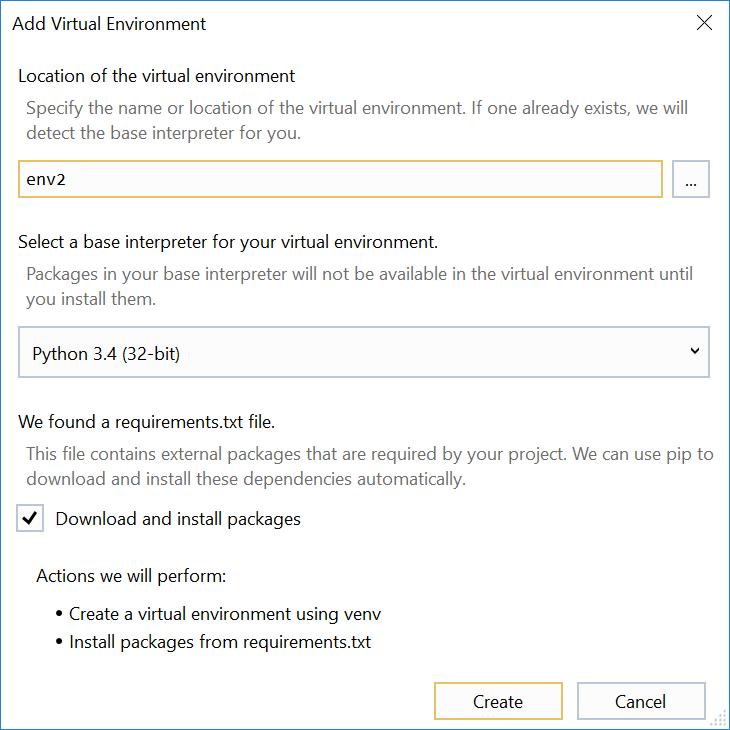
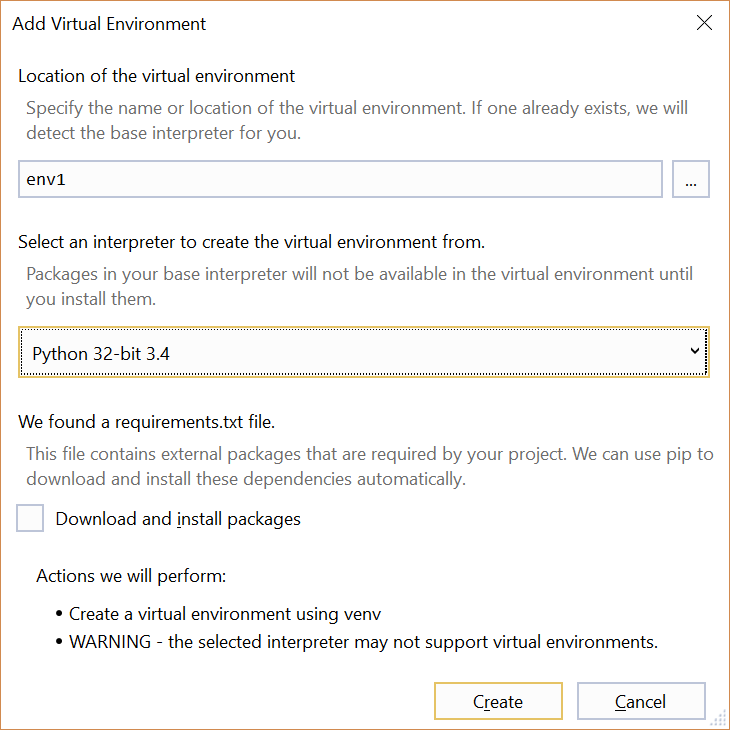
Updating the insturuction for website

diff --git a/Manual Deployment Guide/README.md b/Manual Deployment Guide/README.md
@@ -504,7 +504,7 @@ You will need the following accounts and software to create this solution:
 
 1) Download the installer for [Python Tools for Visual Studio (PTVS)](http://aka.ms/ptvs).
 
-2) Run the installer. In sometime, it will ask to select the workloads. Select **Python Development** and **ASP.NET and web development**. The size of application will be around 1.67 Gb.
+2) Run the installer. In some time, it will ask to select the workloads. Select **Python Development** and **ASP.NET and web development**. The size of application will be around 1.67 Gb.
 
 3) Click Install.
 
@@ -534,7 +534,7 @@ powerbi_url = '<Replace the current url with the one collected in Power BI secti
 
 #### 2. Add Virtual Environment and Python Packages
 
-Install [Python 3.4](http://go.microsoft.com/fwlink/?linkid=516990) if not done aready.
+Install [Python 3.4](http://go.microsoft.com/fwlink/?linkid=516990) if not done already.
 
 1) Open the Visual Studios. On the right top corner, click **Sign In**. Provide your azure subscription(portal.microsoft.com) credentials.  
 
@@ -542,7 +542,7 @@ Install [Python 3.4](http://go.microsoft.com/fwlink/?linkid=516990) if not done 
 
 3) Browse to the folder where you unzipped the inventoryoptimizationwebsite and open **inventoryoptimizationwebsite.sln**.
 
-4) If the poject fails to load, just right click on the Solution Explorer area and click on build. It will load the project. Try to reload the project as well.
+4) If the project fails to load, just right click on the Solution Explorer area and click on build. It will load the project. Try to reload the project as well.
 
 5) Once the project loads, go to the Solution Explorer Tab on right and expand inventoryoptimizationwebsite.
 
@@ -553,12 +553,15 @@ Install [Python 3.4](http://go.microsoft.com/fwlink/?linkid=516990) if not done 
 7) In the new opened window, provide the following details:
  - Name the environment as **env** (do not change the path).
  - Select base interpreter **Python 3.4(32-bit)**.
+ - Uncheck **Download and install packages**
 
 ![](Figures/website3.png)
 
+>**NOTE:** If you have not unchecked the **Download and install packages** in above step, you will see some unable to install packages error on the console. This can be ignored as we will manually put thoes packages, as mentioned in below step.
+
 8) Copy site-packages from inventoryoptimizationwebsite\inventoryoptimizationwebsite\inventoryoptimizationwebsite\\**site-packages** and replace the folder inventoryoptimizationwebsite\inventoryoptimizationwebsite\env\Lib\\**site-packages** with it.
 
-9) Right click on the new python evnironment **env(Python 3.4(32-bit))** and select **install from requirements.txt**. This will refrest the virtual environment and load all the python packages which we copied in step 8.  
+9) Right click on the new python environment **env(Python 3.4(32-bit))** and select **install from requirements.txt**. This will refresh the virtual environment and load all the python packages which we copied in step 8.  
 
 #### 3. Publish Web Site to Azure Web App Server
 
@@ -575,8 +578,9 @@ Install [Python 3.4](http://go.microsoft.com/fwlink/?linkid=516990) if not done 
 
 ![](Figures/websiteCreateProfile.png)
 
-4) Click **Create**. This will publish the website to the Web App server and open the website for you. You can also access the website with following url: https://\<webapp server name>.azurewebsites.net/
+4) Click **Create** and then **Publish**. This will publish the website to the Web App server and open the website for you. You can also access the website with following url: https://\<webapp server name>.azurewebsites.net/
 
+>**NOTE:** The publish may fail with the error "file name too long" if the location where you downloaded the website is too long. To fix this, put the website on desktop or C:/tmp and try publishing again.
 
 ## Delete the Solution
 
